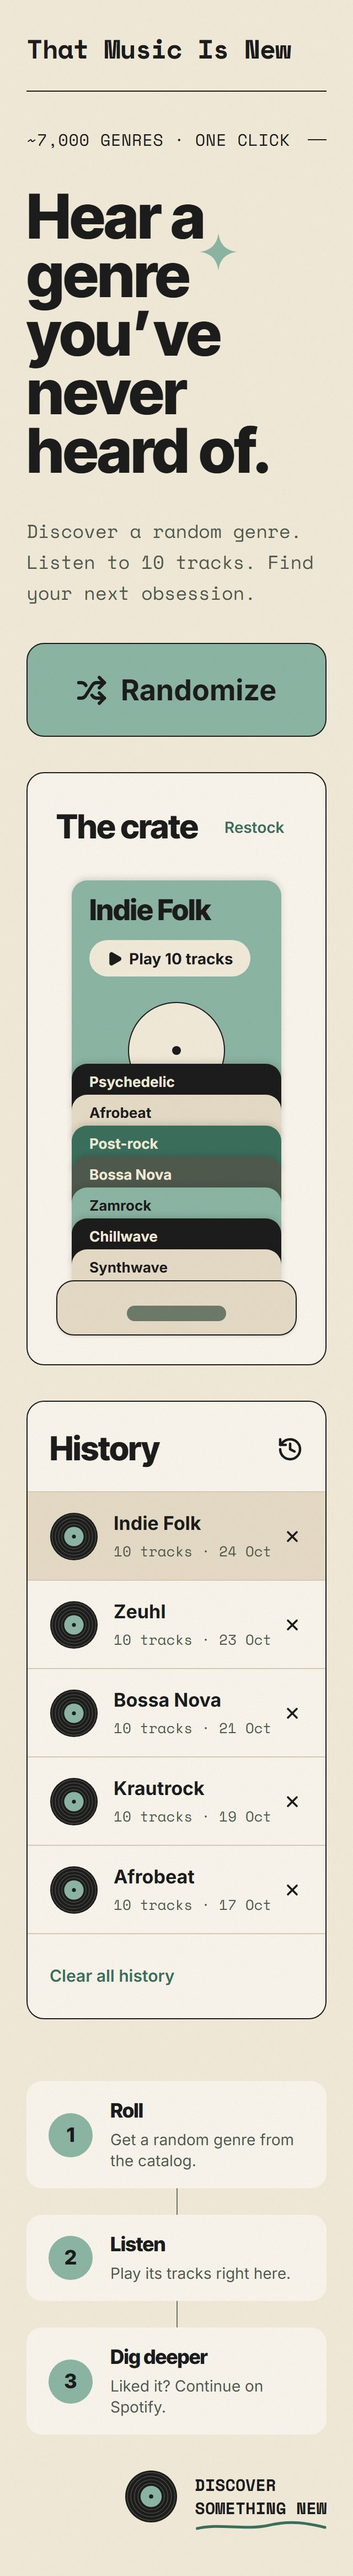
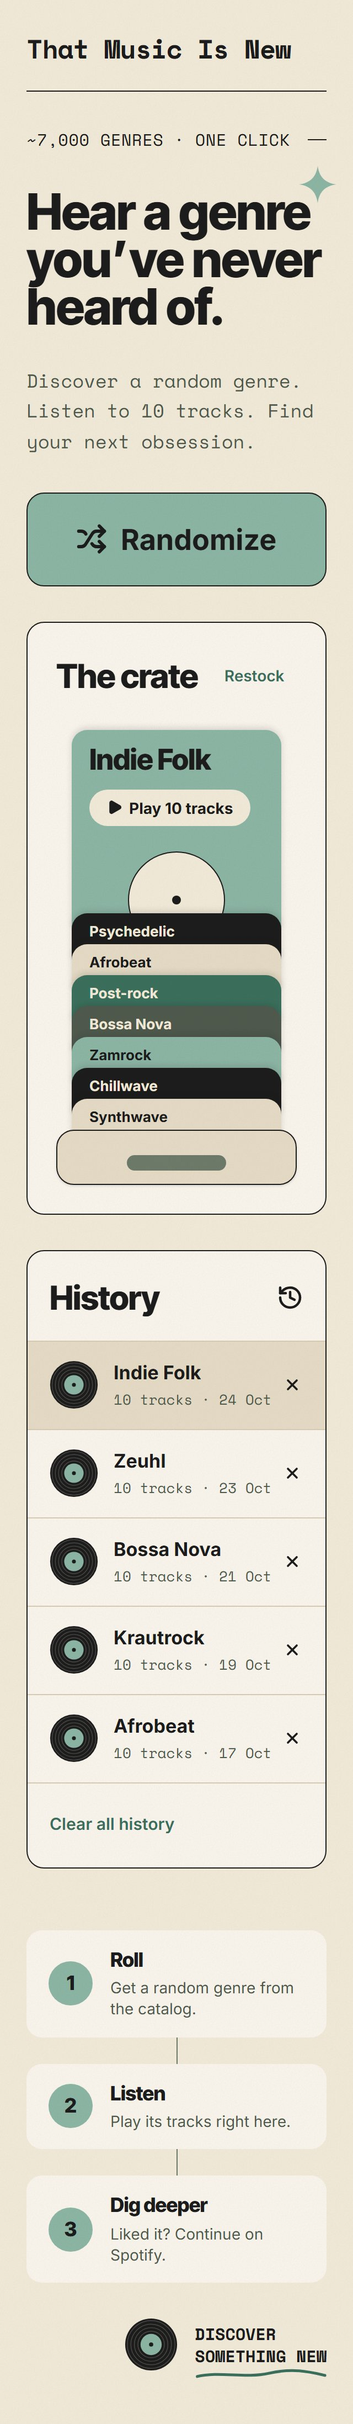
style(home): fit the hero headline on every phone, 96px on tablets
- Phones: display scales with the column (clamp 40–56px) so the headline stays
  3 lines down to 320px (was 5 lines below ~384px); large sparkle tucks in to stay on screen
- Tablets 640–1023px: 96px (display max) fills the 720px column; desktop keeps 80px
- DESIGN.md (Layout, Display) and mobile screenshots updated

Claude-Session: https://claude.ai/code/session_0134cvfna82YHDpEj2thyhQw

diff --git a/src/features/home/hero.tsx b/src/features/home/hero.tsx
@@ -9,11 +9,14 @@ export function Hero({ onRandomize }: { onRandomize: () => void }) {
         <span className="h-px flex-1 bg-border-strong" aria-hidden="true" />
       </div>
 
-      <h1 className="font-display text-[56px] leading-[0.95] font-extrabold tracking-[-0.02em] text-balance sm:text-[80px]">
+      {/* Phones: scales with the column (max 56px) so "Hear a genre / you've never / heard of." stays 3 lines down to 320px.
+          Tablets (640–1023): 96px (display max) fills the 720px column; desktop: 80px in the 36% hero column. */}
+      <h1 className="font-display text-[clamp(40px,calc((100vw-48px)/6),56px)] leading-[0.95] font-extrabold tracking-[-0.02em] text-balance sm:text-[96px] lg:text-[80px]">
         Hear a{" "}
         <span className="relative inline-block">
           genre
-          <Sparkle size={34} className="absolute -top-3 -right-11" />
+          {/* Phones: "genre" ends at the column edge, so the sparkle tucks in to stay on screen. */}
+          <Sparkle size={34} className="absolute -top-3 -right-11 max-sm:-top-5 max-sm:-right-6" />
           {/* Phones: the small sparkle would be cut by the screen edge. */}
           <Sparkle size={16} className="absolute top-6 -right-14 max-sm:hidden" />
         </span>{" "}

diff --git a/DESIGN.md b/DESIGN.md
@@ -230,7 +230,7 @@ Paper, ink and one celadon green; everything else is a tint of the paper.
 **Character:** A dense, poster-weight grotesk shouts the one idea per screen; a typewriter mono files everything else like shop labels.
 
 ### Hierarchy
-- **Display** (800, 80px desktop / 56px mobile, 0.95, -0.02em): the home headline only. Balanced wrap.
+- **Display** (800, 80px desktop / 96px tablets 640–1023px / fluid 40–56px on phones, 0.95, -0.02em): the home headline only, 3 lines on phones and tablets. Balanced wrap.
 - **Genre title** (800, 64px ≥1280px / 56px 1024–1279px / fluid 28–44px (9vw) below 1024px beside the mini deck, 0.95, -0.02em): the genre name on its page, balanced wrap, never overflows (breaks anywhere as a last resort). Names longer than 22 characters step down to 48px (fluid 21–36px below 1024px) so they stay within ~2–3 lines. 48px (line-height 1) for the not-found title.
 - **Headline** (800, 30–40px, 1–1.1, -0.02em): card titles ("The crate" and "History", both 30px; the crate is never smaller) and the open sleeve's genre name (40px; `clamp(26px, 8vw, 40px)` on phones, max 2 lines, so the Play pill never drops into the die-cut hole).
 - **Title** (800, 18px, 1.2): step card titles and the "Your finds" heading, kept quiet.
@@ -249,7 +249,7 @@ Desktop (≥1024px): everything sits in a centred 1440px container with 48px sid
 Genre page (`/{slug}`, ≥1024px): same container; two columns, deck | fluid info, 48px gap; the deck is 440px from 1280px and 360px between 1024 and 1279px. Deck column: "Back to the crate" link, turntable (scales down with the column, fixed 440:400 ratio), player slot. Info column: genre title with Listen more on Spotify + Roll again on the same line (right, wrapping below when tight), Space Mono meta, tracks (two columns of five from 1024px), then a Pencil Rule hairline and "Your finds". No steps band: an invisible, inert copy keeps its height so the page height (and the corner vinyl) match the home at 1440×900. History management lives on the home only.
 
 Below 1024px (phones and tablets, one layout, decided 2026-11-15, brief `docs/design/mobile-brief.md`): one centred column, max 720px, 24px side padding (header, main row and steps share it). No separate tablet design.
-- **Home:** same order as desktop, compacted: hero (56px display, 80px from 640px; the small sparkle hides below 640px), crate, History (no min height), steps stacked with vertical connectors. Nothing fixed on screen.
+- **Home:** same order as desktop, compacted: hero (display scales with the column below 640px, `clamp(40px, (100vw − 48px) / 6, 56px)`, so the headline stays 3 lines on every phone down to 320px; 96px (display max) from 640px so it fills the 720px tablet column; below 640px the small sparkle hides and the large one tucks in to stay on screen), crate, History (no min height), steps stacked with vertical connectors. Nothing fixed on screen.
 - **Genre page:** the deck and info columns dissolve into one grid. "Back to the crate"; a **mini turntable** (clamp 88–120px wide, same geometry and motion; thinner arm and head, no "33⅓", 12px radius) beside the title + meta; "Listen more on Spotify" on its own 44px row (reserved while loading); tracks in one column; "Your finds" as one sideways-scrolling row of mini sleeves that bleeds to the screen edges.
 - **Bottom bar (genre page only):** fixed, Kinari with a 1.5px Sumi top rule, safe-area aware; player slot (no vinyl, no "Spotify player" label below 640px) + Roll again (secondary, 56px tall, always labelled: "Roll" below 640px beside the player, accessible name "Roll again"; a bare shuffle icon reads as "shuffle the tracks"). Below 640px "Dig deeper" is icon-only (44px ↗, same accessible name) so the now-playing title keeps its width. The top Roll again is hidden. The bar is last in the DOM (reading order unchanged); the page reserves 120px + safe area under it, and `scroll-padding-bottom` keeps focused elements clear of it (WCAG 2.4.11). Outside the ready state the empty player slot leaves the bar and Roll again fills it (loading, error, busy, empty).
 
